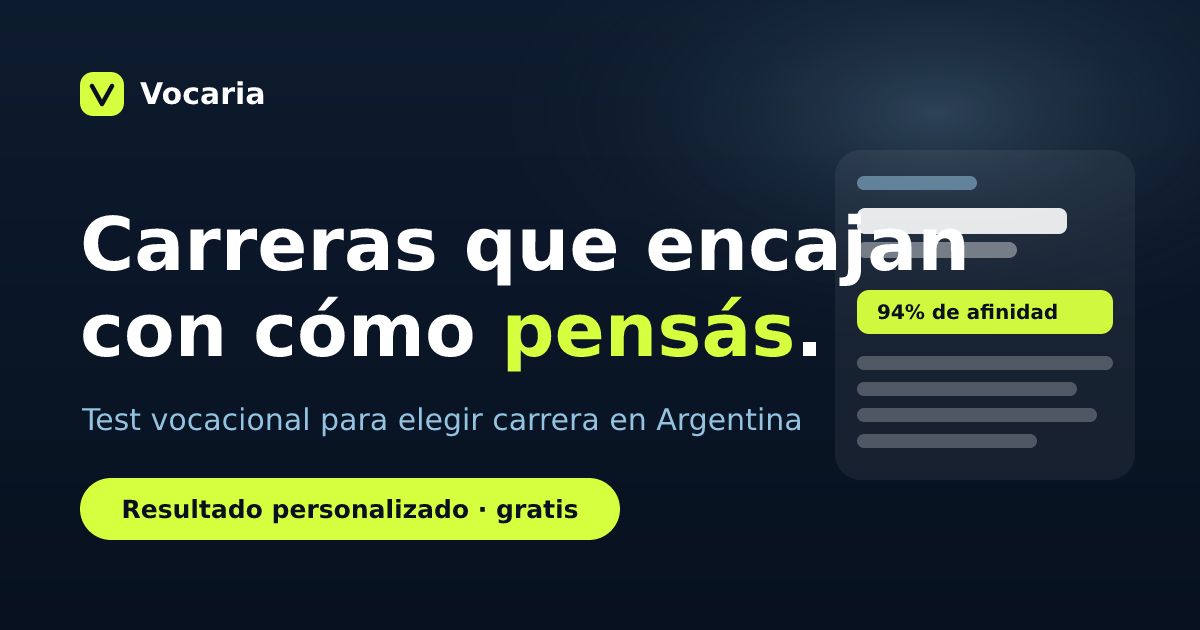
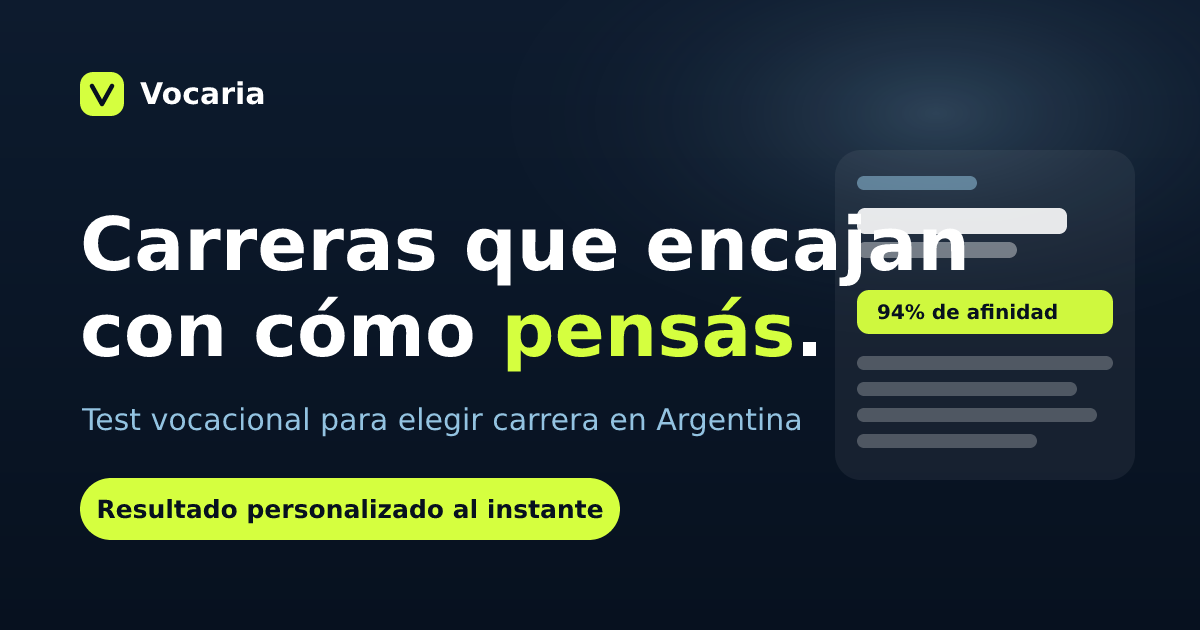
Quitar 'gratis' del copy in-app, imagen OG y comentarios
- Imagen OG (public/og-image.png) y su generador: el pill pasa de
  'Resultado personalizado · gratis' a 'Resultado personalizado al instante'.
- Comentarios internos en ResultPreview y printableReport: se reemplaza
  'gratis/gratuito' por 'preview' sin cambiar comportamiento.

Claude-Session: https://claude.ai/code/session_018h3rzDDS8yjBZxxf8VyiHe

Changed region(s): [[0.0617, 0.7841, 0.5242, 0.8444]]

diff --git a/src/test/report/printableReport.ts b/src/test/report/printableReport.ts
@@ -3,7 +3,7 @@
  * (vía "Guardar como PDF" del diálogo de impresión del navegador), sin depender
  * de un backend de PDF.
  *
- * El PDF es un entregable de los PLANES PAGOS. El tier gratuito NO descarga PDF:
+ * El PDF es un entregable de los PLANES PAGOS. El tier de preview NO descarga PDF:
  * su resultado vive en pantalla (ResultPreview). Mientras Mercado Pago no esté
  * habilitado, este documento se muestra como "vista previa" del entregable de pago.
  *

diff --git a/src/test/screens/ResultPreview.tsx b/src/test/screens/ResultPreview.tsx
@@ -156,7 +156,7 @@ export default function ResultPreview({ nombre, result, onGetFullReport }: Resul
       <div className="max-w-xl lg:max-w-5xl mx-auto px-5 lg:px-8 py-8 lg:py-12 pb-16">
 
         {/* ───────────────────────── HOOK: la revelación ─────────────────────────
-            Lo único gratis: el nombre del arquetipo, la frase catchy (la muestra),
+            Lo único del preview: el nombre del arquetipo, la frase catchy (la muestra),
             la precisión y un gancho. Nada del informe en sí. */}
         <motion.div
           initial={{ opacity: 0, y: 18 }}